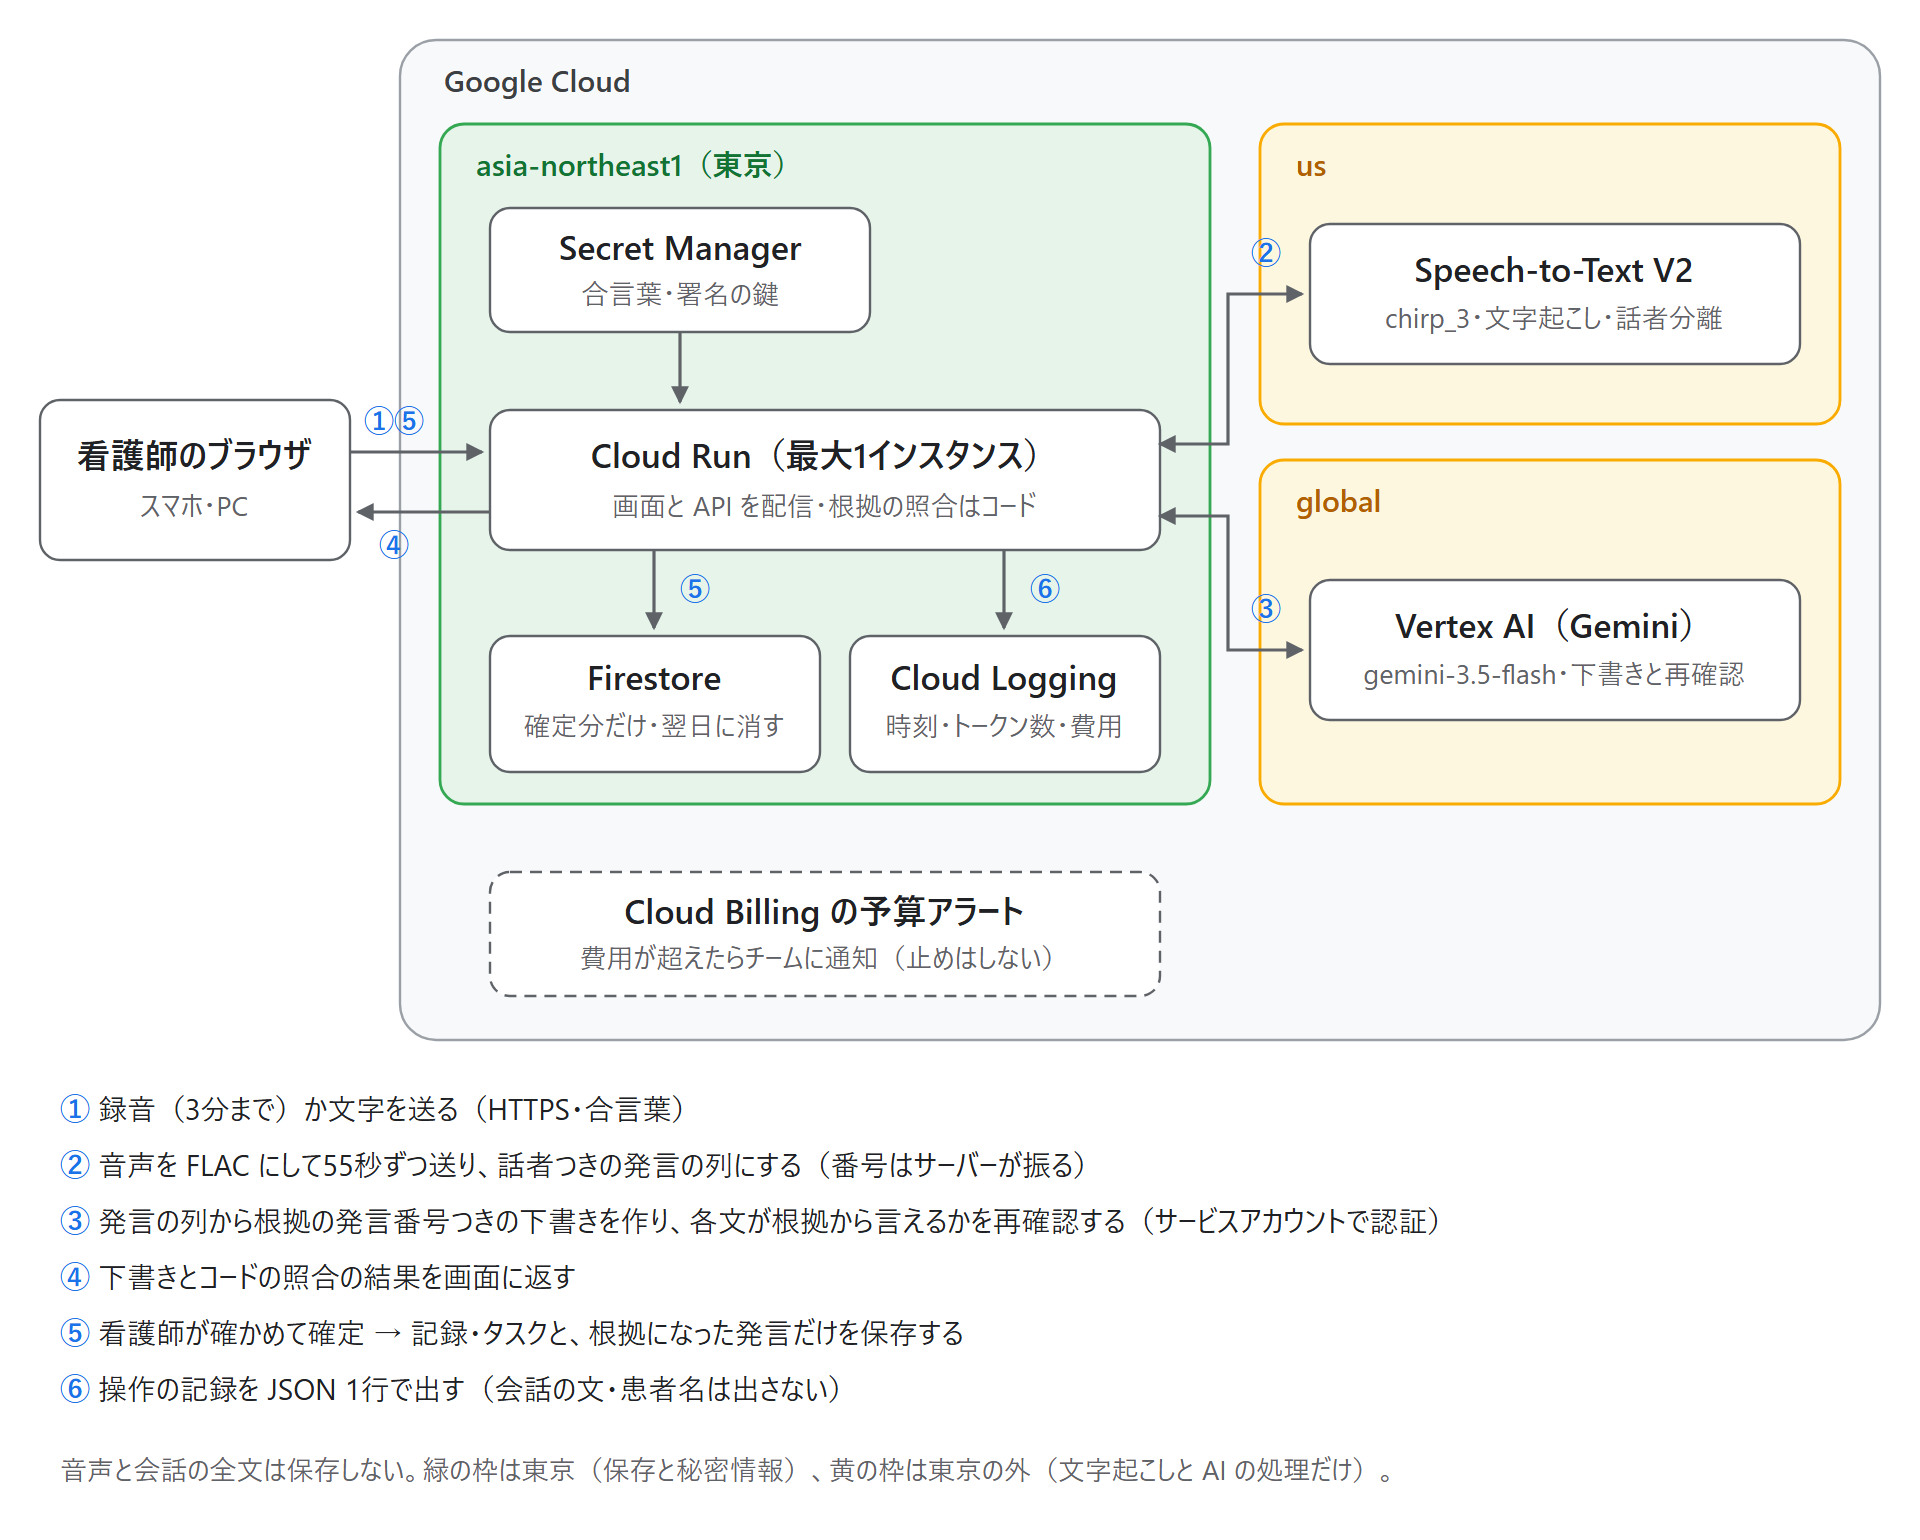
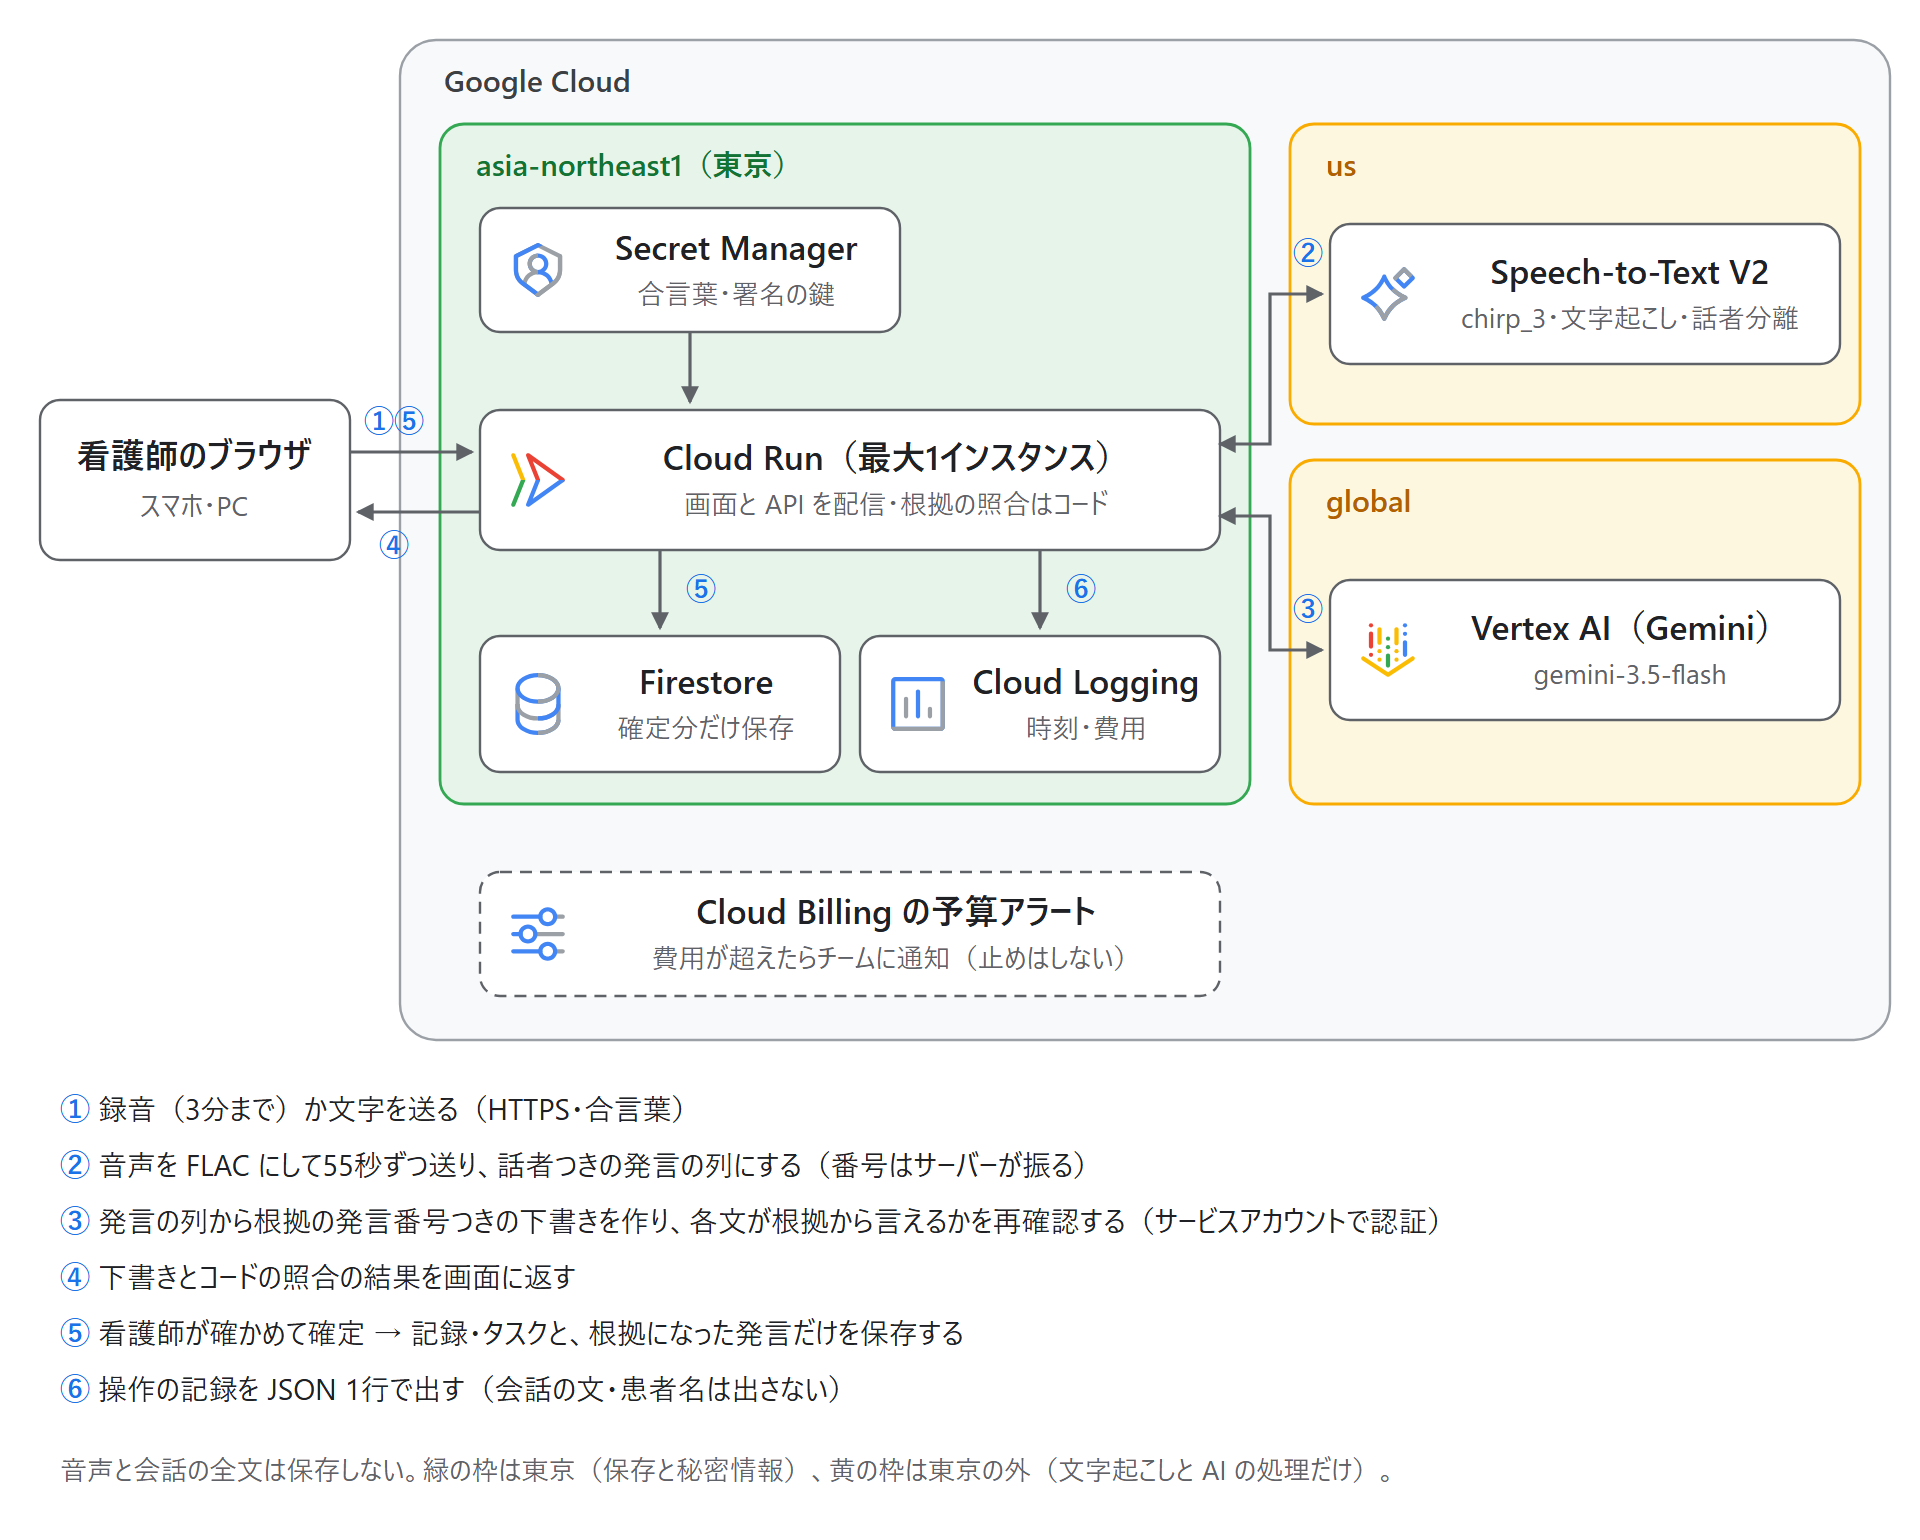
docs: 構成図を Google Cloud 公式アイコン入りにする

diff --git a/docs/submission/architecture.md b/docs/submission/architecture.md
@@ -2,6 +2,8 @@
 
 ![NurseNote の Google Cloud アーキテクチャ図](architecture.png)
 
+アイコンは Google Cloud の公式プロダクトアイコン（https://cloud.google.com/icons 、2025年版）。固有のアイコンがないサービスは、公式の決まりどおりカテゴリのアイコンを使った（Speech-to-Text は AI・機械学習、Firestore はデータベース、Secret Manager はセキュリティ、Cloud Logging はオブザーバビリティ、Cloud Billing は管理ツール）。
+
 上の図は要素を絞った全体像。細かい処理（音声の区切り方・秘密情報のバージョン固定・ログに出さないものなど）は、下の図と表に書く。中身は [設計](../design/README.md) 5・8・10章、API と保存の形は [データの形](../design/data-model.md)、守らせる決まりは [決まりの一覧](../design/rules.md)。技術構成は [ADR-0003](../adr/0003-runtime-and-stack.md)、モデルは [ADR-0004](../adr/0004-model.md)（`gemini-3.5-flash`・`global` に決定）。
 
 ```mermaid
